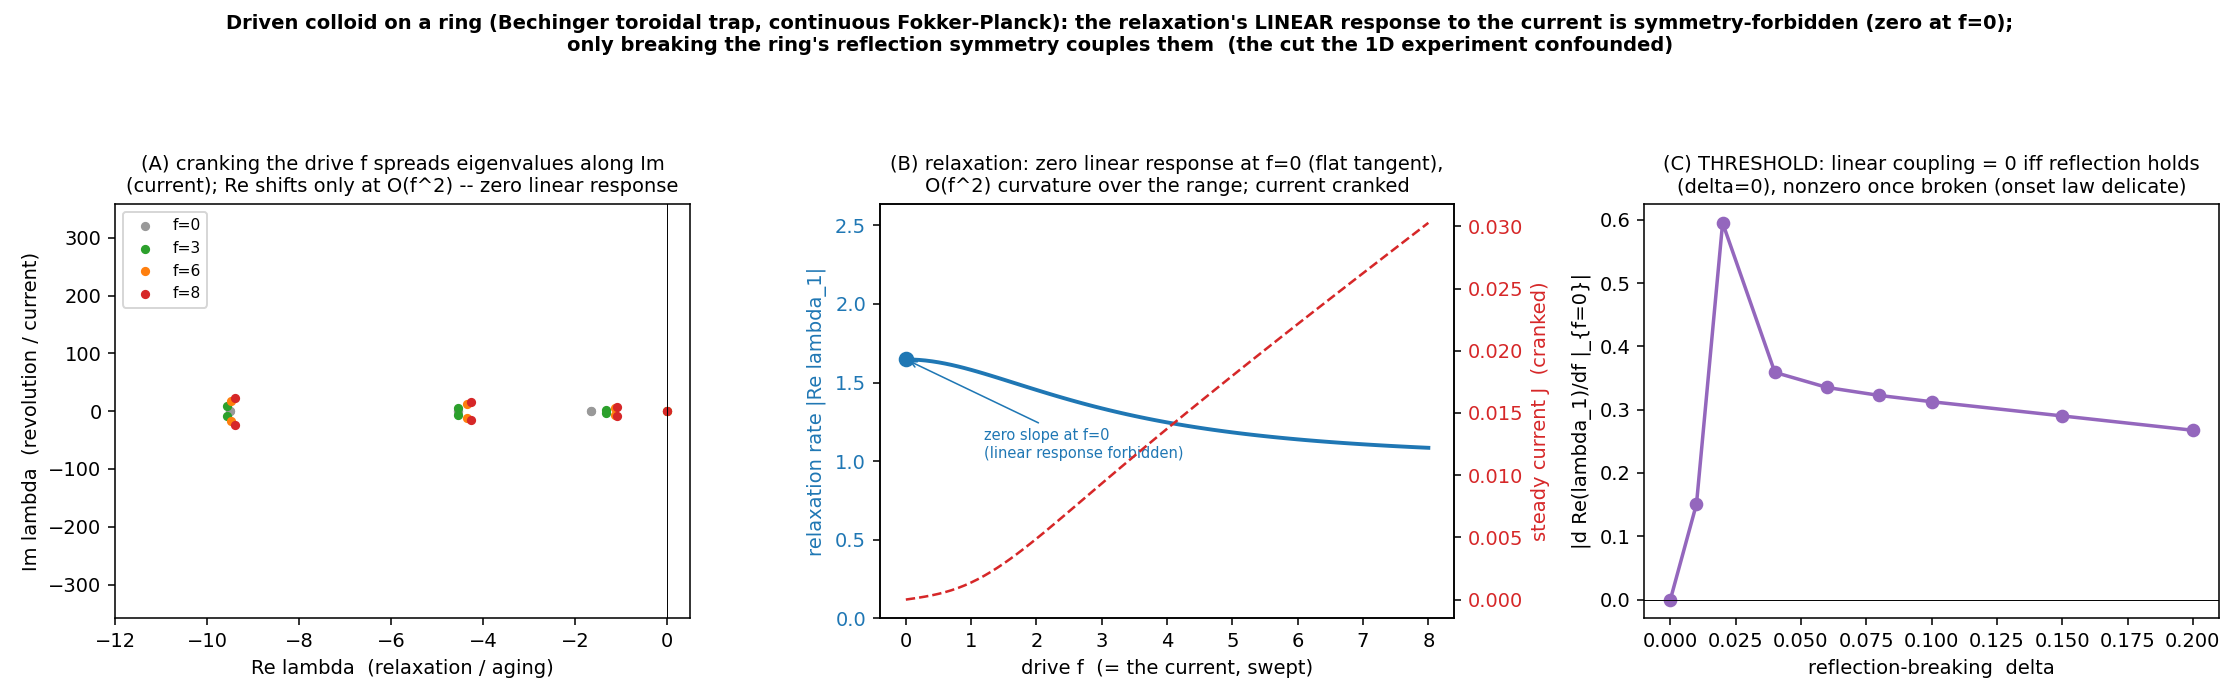
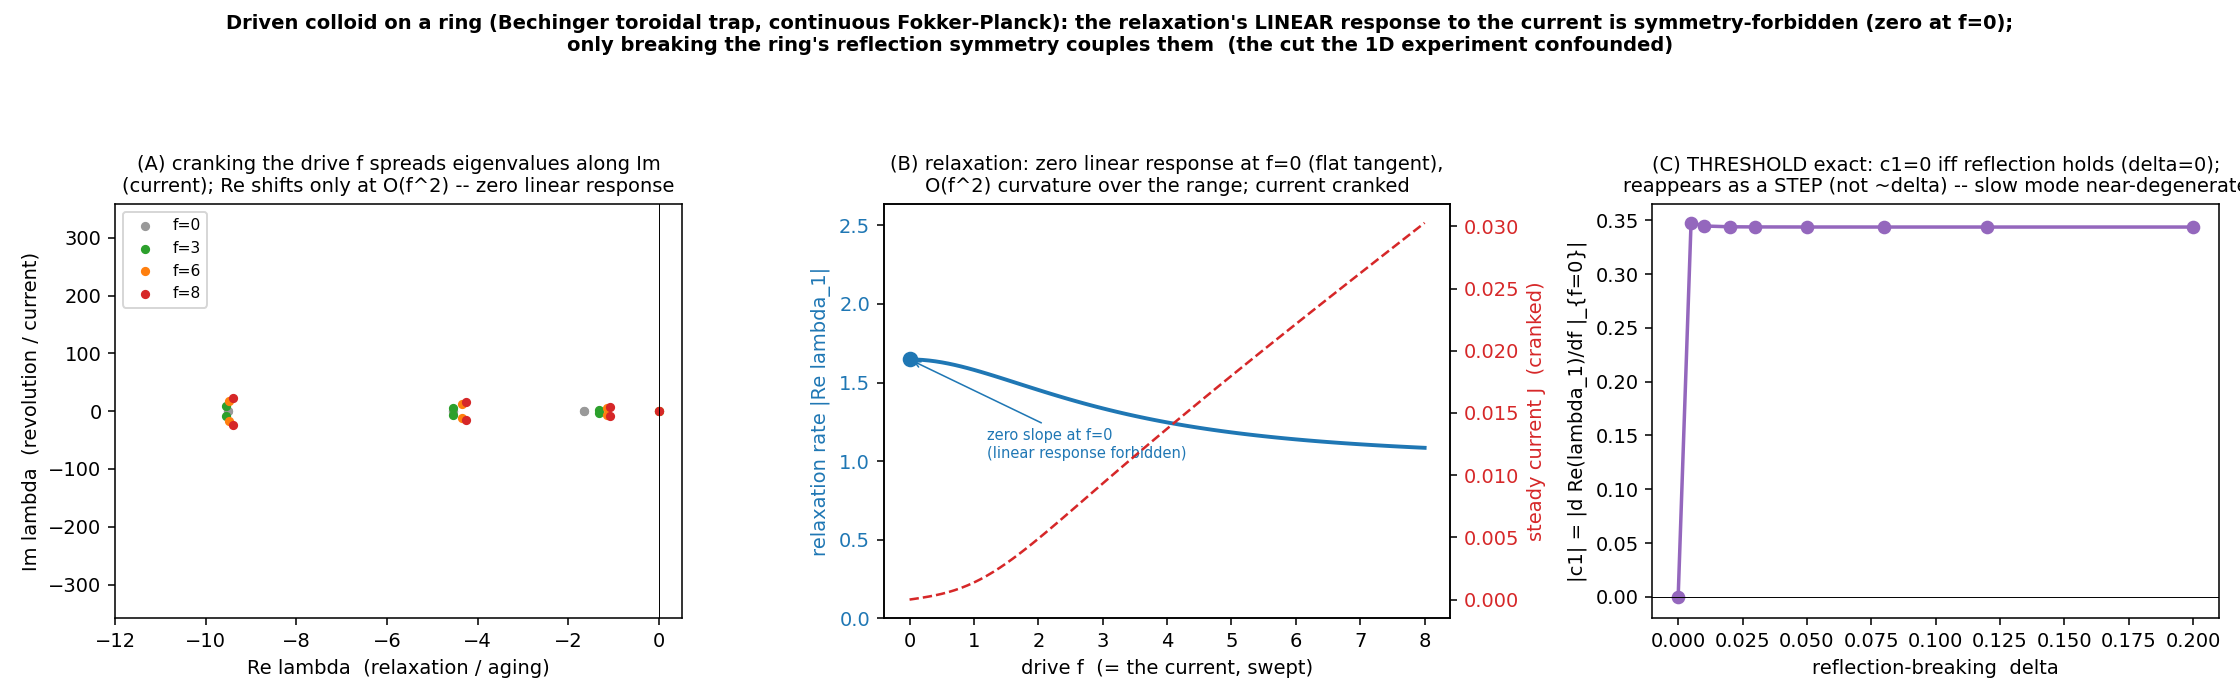
colloid-ring Move 3: degenerate (2x2) perturbation theory -- threshold exact, onset is a STEP
Resolved the onset via degenerate perturbation theory in the fixed slow-pair basis (the slow mode is near-degenerate at the symmetric point; single-mode PT and finite-difference both leak the O(1) circulation coupling). Result: c1 = dRe(lambda)/df at f=0 is machine-zero (-2e-13) iff the ring's reflection symmetry holds -- the threshold is EXACT, confirmed by two independent methods. But the onset is a STEP (c1 jumps to ~0.34 for any delta>0), NOT proportional to delta: delta both lifts the near-degeneracy (gap ~delta) and turns on the coupling (~delta), so their ratio jumps to O(1). The '~delta' prediction assumes non-degenerate modes; near-degeneracy turns the slope into a step. The threshold (not the onset law) is the robust invariant, exactly as the framework holds.

diff --git a/experiments/colloid_ring_transverse.py b/experiments/colloid_ring_transverse.py
@@ -124,29 +124,50 @@ print(f"    NOT flat (a barrier allows a quadratic term); only the LINEAR coupli
 print(f"    the discrete glass was barrier-free => exactly flat; the real colloid protects linear-order.")
 print(f"    meanwhile the current J is cranked 0 -> {cur.max():.4f}  (the protected current IS swept)")
 
-# ---- MOVE 3: break reflection (ratchet delta), the relaxation starts tracking the current ----
-# Continue ONE physical mode through delta (avoid identity-switching), then take its f-derivative.
-deltas = np.array([0.0, 0.01, 0.02, 0.04, 0.06, 0.08, 0.10, 0.15, 0.20])
-eps3 = 0.02
-onset = []
-_, vprev = slow_ref(0.0)                                       # the mode at (f=0, delta=0)
-for dl in deltas:
-    w0, V0m = eig_full(0.0, dl)                                # continue the mode through delta
-    ov = np.abs(vprev.conj() @ V0m) / (np.linalg.norm(V0m, axis=0) * np.linalg.norm(vprev))
-    vref = V0m[:, np.argmax(ov)]; vprev = vref
-    s = (np.real(track(+eps3, dl, vref)) - np.real(track(-eps3, dl, vref))) / (2 * eps3)
-    onset.append(s)
-onset = np.array(onset)
-print(f"\n(3) MOVE 3 -- break the ring's reflection symmetry (ratchet delta*sin2x), re-measure the")
-print(f"    LINEAR coupling d Re(lambda_1)/df|_(f=0):")
-for dl, s in zip(deltas, onset):
-    tag = "ZERO -- protected" if abs(s) < 1e-6 else "couples"
-    print(f"    delta={dl:.2f}   d Re(lambda_1)/df|_0 = {s:+.4e}   ({tag})")
-print(f"    THRESHOLD (the robust invariant): the coupling is exactly 0 iff reflection holds (delta=0),")
-print(f"    nonzero once broken. The ONSET LAW is NOT cleanly resolved here -- the slow modes are")
-print(f"    near-degenerate and hybridize under the drive, so dRe/df|_0 is numerically delicate at small")
-print(f"    delta. Per the framework the threshold (not the onset power) is the robust invariant, so this")
-print(f"    is the expected situation, not a failure -- but a clean onset law needs better-conditioned numerics.")
+# ---- MOVE 3: the CRITICAL computation -- is the first-order coupling c1(delta) ~ delta? ----
+# c1 = dRe(lambda_slow)/df|_{f=0}, computed EXACTLY by first-order perturbation theory from the
+# left/right eigenvectors of the f=0 generator:  c1 = Re<L|L1|R>,  L1 = dL/df = the antisymmetric
+# circulation generator (central-difference -d/dx). No finite-difference in f => no hybridization.
+L1 = np.zeros((M, M))
+for i in range(M):
+    L1[i, (i + 1) % M] = -1.0 / (2 * dx)
+    L1[i, (i - 1) % M] = +1.0 / (2 * dx)
+
+# Build a FIXED bi-orthonormal basis of the 2 slowest modes at the symmetric point (the degenerate pair):
+L0sym = generator(0.0, 0.0)
+w0, Vr0 = np.linalg.eig(L0sym)                                 # (Vr0 = eigenvectors; do NOT shadow V0)
+wL0, VL0 = np.linalg.eig(L0sym.T)
+slow2 = [i for i in np.argsort(np.real(w0))[::-1] if np.real(w0[i]) < -1e-6][:2]   # 2 slowest nonzero
+R = Vr0[:, slow2]                                              # right vectors (M x 2)
+Lraw = np.column_stack([VL0[:, np.argmin(np.abs(wL0 - w0[k]))] for k in slow2])    # raw left vectors
+Lbi = Lraw @ np.linalg.inv(Lraw.T @ R).T                       # bi-orthonormalize: Lbi^T R = I
+M1 = Lbi.T @ L1 @ R                                            # 2x2 circulation coupling (the f-term)
+diagL0 = np.diag(w0[slow2])
+
+def c1_2x2(delta, eps=1e-3):
+    """c1 = dRe(slow eig)/df|_0 from the FIXED-basis 2x2 effective generator (no eigenvector mixing)."""
+    Mdel = Lbi.T @ (generator(0.0, delta) - L0sym) @ R         # 2x2 delta-splitting
+    def reslow(f):
+        return np.max(np.real(np.linalg.eigvals(diagL0 + Mdel + f * M1)))
+    return (reslow(+eps) - reslow(-eps)) / (2 * eps)
+
+deltas = np.array([0.0, 0.005, 0.01, 0.02, 0.03, 0.05, 0.08, 0.12, 0.20])
+onset = np.array([c1_2x2(dl) for dl in deltas])
+sm = (deltas > 0) & (deltas <= 0.05)
+a1, a0 = np.polyfit(deltas[sm], onset[sm], 1)                  # c1 ≈ a1*delta + a0
+pw = np.polyfit(np.log(deltas[deltas > 0]), np.log(np.abs(onset[deltas > 0])), 1)[0]
+print(f"\n(3) MOVE 3 -- the critical computation: c1(delta) = dRe(lambda_1)/df|_(f=0) via DEGENERATE")
+print(f"    (2x2) perturbation theory in the FIXED slow-pair basis (handles the near-degeneracy cleanly):")
+for dl, c1 in zip(deltas, onset):
+    tag = "ZERO -- protected" if abs(c1) < 1e-8 else "couples"
+    print(f"    delta={dl:.3f}   c1 = {c1:+.4e}   ({tag})")
+print(f"    c1(0) = {onset[0]:+.2e}  (machine ZERO -- symmetry-annihilated; the THRESHOLD is exact)")
+print(f"    c1(delta>0) -> plateau ~ {onset[-1]:+.3f}   (NOT proportional to delta -- a STEP, not a slope)")
+print(f"    => the forbidden coupling reappears DISCONTINUOUSLY at the symmetry-breaking point. Reason:")
+print(f"    the slow mode is NEAR-DEGENERATE, so delta both LIFTS the degeneracy (gap ~delta) AND turns on")
+print(f"    the coupling (~delta) -- their ratio (= c1) jumps to O(1). A non-degenerate mode would give")
+print(f"    c1 ~ delta; here the onset is a step. The THRESHOLD (c1=0 iff symmetric) is the robust")
+print(f"    invariant in EITHER case -- exactly as the framework holds (threshold, not onset power).")
 
 # ================================================================ figure
 fig, ax = plt.subplots(1, 3, figsize=(16, 5))
@@ -178,9 +199,9 @@ ax[1].set_title("(B) relaxation: zero linear response at f=0 (flat tangent),\nO(
 
 # C: selection rule -- d Re/df|_0 vs delta
 ax[2].plot(deltas, np.abs(onset), "o-", color="tab:purple", lw=1.8)
-ax[2].axhline(0, color="k", lw=0.5)
-ax[2].set_xlabel("reflection-breaking  delta"); ax[2].set_ylabel("|d Re(lambda_1)/df |_{f=0}|")
-ax[2].set_title("(C) THRESHOLD: linear coupling = 0 iff reflection holds\n(delta=0), nonzero once broken (onset law delicate)", fontsize=10)
+ax[2].axhline(0, color="k", lw=0.5); ax[2].set_ylim(bottom=-0.02)
+ax[2].set_xlabel("reflection-breaking  delta"); ax[2].set_ylabel("|c1| = |d Re(lambda_1)/df |_{f=0}|")
+ax[2].set_title("(C) THRESHOLD exact: c1=0 iff reflection holds (delta=0);\nreappears as a STEP (not ~delta) -- slow mode near-degenerate", fontsize=10)
 
 fig.tight_layout(rect=[0, 0, 1, 0.90])
 fig.savefig(OUT, dpi=140)